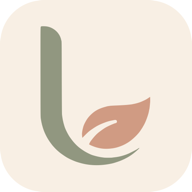
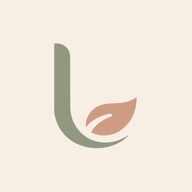
fix(branding): ajustement du cadrage de l'icône dans la zone de sécurité circulaire (safe-zone Android & notifications)

diff --git a/scripts/generate-icons.ts b/scripts/generate-icons.ts
@@ -1,7 +1,33 @@
-<svg xmlns="http://www.w3.org/2000/svg" viewBox="0 0 1024 1024" width="1024" height="1024">
+import fs from "fs";
+import path from "path";
+import { execSync } from "child_process";
+
+const svgContent = `<svg xmlns="http://www.w3.org/2000/svg" viewBox="0 0 1024 1024" width="1024" height="1024">
   <rect width="1024" height="1024" fill="#F8EFE4"/>
   <g transform="translate(192, 192) scale(6.4)">
     <path fill="#919780" d="M15.23 6.27C14.97 6.55 14.97 6.55 14.99 34.79C15.01 63.04 15.01 63.04 15.23 64.48C15.98 69.58 17.66 74.06 20.41 78.24C21.04 79.18 22.26 80.83 22.73 81.37C24.46 83.32 24.79 83.65 26.6 85.22C27.61 86.11 30.54 88.15 31.88 88.9C33.2 89.65 34.69 90.34 36.84 91.2C37.55 91.49 39.6 92.11 41.15 92.51C46.7 93.94 53.08 94 59.4 92.69C60.45 92.48 60.85 92.37 62.32 91.91C67.7 90.27 71.9 87.92 75.84 84.35C77.18 83.15 77.53 82.73 77.23 82.73C77.17 82.73 76.82 82.94 76.46 83.19C76.1 83.44 75.64 83.73 75.43 83.84C74.71 84.25 71.49 85.87 70.74 86.22C67.82 87.51 64.74 88.35 61.7 88.66C61.18 88.72 60.51 88.8 60.22 88.85C59.53 88.96 55.9 88.96 55.05 88.85C54.69 88.8 54.07 88.72 53.68 88.67C52.02 88.46 49.22 87.79 47.45 87.18C46.34 86.8 43.93 85.59 42.67 84.79C39.54 82.79 38.22 81.68 36.09 79.3C35.05 78.14 33.3 75.76 32.75 74.76C32.65 74.59 32.46 74.25 32.33 74.02C31.52 72.59 30.63 70.68 30.27 69.62C29.92 68.58 29.44 66.84 29.34 66.3C29.28 66 29.22 65.74 29.2 65.7C29.12 65.57 28.68 62.84 28.57 61.79C28.49 61 28.45 54.83 28.4 38.2C28.36 16.64 28.35 15.66 28.18 15.13C28.09 14.82 27.98 14.41 27.93 14.2C27.5 12.16 26.01 9.86 24.2 8.47C21.94 6.72 19.82 6 16.98 6C15.5 6 15.5 6 15.23 6.27Z"/>
     <path fill="#D09B83" stroke="#F8EFE4" stroke-width="2.1" d="M84.25 49.45C84.19 49.54 82.63 50.58 81.69 51.19C81.04 51.59 80.2 52.02 79.35 52.38C78.94 52.57 78.5 52.75 78.4 52.8C77.4 53.26 75.29 53.91 74.04 54.14C73.64 54.22 73.12 54.32 72.89 54.37C72.5 54.47 71.85 54.55 70.01 54.74C68.83 54.87 65.01 55.1 62.05 55.21C60.61 55.27 59.19 55.36 58.9 55.4C58.61 55.44 58.09 55.52 57.73 55.57C57.08 55.66 56.85 55.72 55.18 56.19C52.86 56.84 50.87 57.7 49.18 58.79C47.6 59.8 45.7 61.54 44.48 63.07C43.11 64.77 41.56 67.71 41.15 69.4C41.02 69.92 40.87 70.52 40.81 70.71C40.61 71.46 40.36 73.22 40.36 73.9C40.36 74.88 40.62 77.06 40.77 77.42C40.85 77.59 40.98 77.73 41.06 77.73C41.15 77.73 42.11 76.82 43.19 75.7C44.29 74.59 45.57 73.36 46.04 72.98C46.97 72.21 49.05 70.8 50.47 69.94C51.64 69.23 53.54 68.34 55.22 67.71C55.63 67.55 56.13 67.37 56.32 67.29C57.51 66.85 58.75 66.5 59.91 66.28C60.29 66.21 60.9 66.09 61.25 66.01C62.2 65.8 62.41 65.82 62.41 66.09C62.41 66.26 62.36 66.31 62.08 66.36C61.33 66.48 57.29 68.24 56.07 68.97C55.86 69.09 55.61 69.23 55.5 69.28C55.28 69.39 53.69 70.45 53.01 70.96C52.76 71.15 52.19 71.56 51.76 71.88C50.15 73.07 48.8 74.44 46.99 76.71C46.05 77.89 45.58 78.58 45.29 79.23C45.18 79.48 45 79.85 44.9 80.07C44.8 80.29 44.71 80.53 44.71 80.62C44.71 81.21 48.23 82.78 51.11 83.46C54.21 84.2 56.9 84.29 60.56 83.79C63.93 83.32 67.7 81.89 70.75 79.91C73.52 78.13 77.01 74.77 78.64 72.34C79.41 71.19 80.21 69.95 80.21 69.9C80.21 69.87 80.37 69.56 80.59 69.23C82.05 66.81 83.79 62.09 84.25 59.33C84.27 59.13 84.36 58.75 84.43 58.5C84.54 58.08 84.72 56.56 84.93 54.05C85.03 52.99 84.95 49.78 84.82 49.53C84.74 49.36 84.33 49.3 84.25 49.45Z"/>
   </g>
-</svg>
+</svg>`;
+
+const publicDir = path.join(__dirname, "..", "public");
+const appDir = path.join(__dirname, "..", "src", "app");
+
+// 1. Write SVGs
+fs.writeFileSync(path.join(publicDir, "icon.svg"), svgContent);
+fs.writeFileSync(path.join(appDir, "icon.svg"), svgContent);
+console.log("Updated icon.svg in public/ and src/app/");
+
+// 2. Render master PNG (1024x1024) via qlmanage
+const tmpSvg = "/tmp/liela_icon_tmp.svg";
+fs.writeFileSync(tmpSvg, svgContent);
+execSync(`qlmanage -t -s 1024 -o /tmp ${tmpSvg}`);
+
+const masterPng = "/tmp/liela_icon_tmp.svg.png";
+
+// 3. Downscale using sips for high-quality antialiasing
+execSync(`sips -z 512 512 ${masterPng} --out "${path.join(publicDir, "icon-512.png")}"`);
+execSync(`sips -z 192 192 ${masterPng} --out "${path.join(publicDir, "icon-192.png")}"`);
+execSync(`sips -z 180 180 ${masterPng} --out "${path.join(publicDir, "apple-touch-icon.png")}"`);
+
+console.log("Generated icon-512.png, icon-192.png, apple-touch-icon.png");

diff --git a/public/sw.js b/public/sw.js
@@ -1,4 +1,4 @@
-const CACHE_NAME = "liela-v5";
+const CACHE_NAME = "liela-v6";
 
 self.addEventListener("install", (event) => {
   self.skipWaiting();
